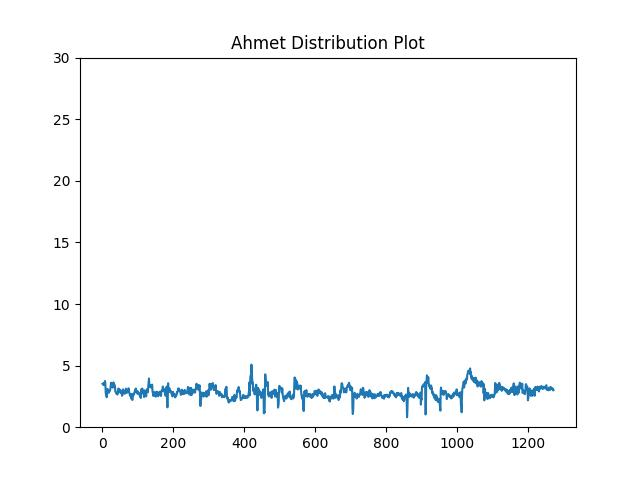
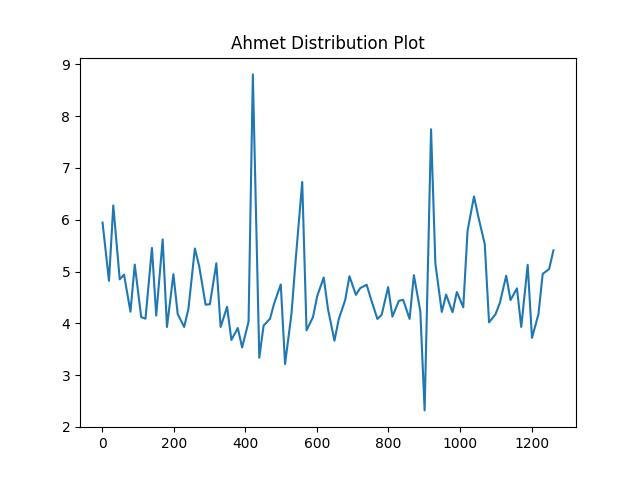
Eye Detection v2

diff --git a/EyeDetection/main.py b/EyeDetection/main.py
@@ -40,14 +40,27 @@ class ADHD_Calculation():
     
     
     
-    def calc_eye_score(self, plot = False, plot_name = "Normal Plot"):
+    def calc_eye_score(self, plot = False, plot_name = "Normal Plot", fps = 2):
+        
         
         camera = cv2.VideoCapture(self.video_path)
 
         plot_dict = dict()
         plot_dict['values'] = []
         plot_dict['time'] = []
-        frame_counter =0
+        frame_counter = 0
+        
+        total_frames = int(camera.get(cv2.CAP_PROP_FRAME_COUNT))
+        general_fps = int(camera.get(cv2.CAP_PROP_FPS))  # Frames per second of the video
+        
+        if general_fps == 0:
+            general_fps = 1
+            
+        video_minutes = int(total_frames/ general_fps)
+        
+        selected_frame_indexes = np.random.randint(1,30, size = fps)
+        total_tqdm_frames = video_minutes * fps
+        fps_counter = 0
         
         with self.map_face_mesh.FaceMesh(
             max_num_faces=1,
@@ -55,50 +68,66 @@ class ADHD_Calculation():
             min_detection_confidence=0.5,
             min_tracking_confidence=0.5) as face_mesh:
 
-            with tqdm(total=int(camera.get(cv2.CAP_PROP_FRAME_COUNT))) as pbar:    
+            with tqdm(total=total_tqdm_frames) as pbar:    
                 
                 while True:
                     frame_counter +=1 # frame counter
                     ret, frame = camera.read() # getting frame from camera 
                     if not ret: 
                         break # no more frames break
-            
                     
-                    rgb_frame = cv2.cvtColor(frame, cv2.COLOR_RGB2BGR)
-                    results  = face_mesh.process(rgb_frame)
-                    if results.multi_face_landmarks:
-                        mesh_points = utils.landmarksDetection(frame, results)
-            
-                        # Get Eye mean 
-                        left_eye_coords = [mesh_points[p] for p in self._coords['LEFT_EYE']]
-                        left_mean_eye_coords = np.mean(left_eye_coords, axis=0)
-            
-                        right_eye_coords = [mesh_points[p] for p in self._coords['RIGHT_EYE']]
-                        right_mean_eye_coords = np.mean(right_eye_coords, axis=0)
+                    frame_number = int(camera.get(cv2.CAP_PROP_POS_FRAMES))
+                    
+                    if frame_number in selected_frame_indexes:
+                        
+                        bgr_frame = cv2.cvtColor(frame, cv2.COLOR_RGB2BGR)
+                        results  = face_mesh.process(bgr_frame)
+                        if results.multi_face_landmarks:
+                            mesh_points = utils.landmarksDetection(frame, results)
+                
+                            # Get Eye mean 
+                            left_eye_coords = [mesh_points[p] for p in self._coords['LEFT_EYE']]
+                            left_mean_eye_coords = np.mean(left_eye_coords, axis=0)
+                
+                            right_eye_coords = [mesh_points[p] for p in self._coords['RIGHT_EYE']]
+                            right_mean_eye_coords = np.mean(right_eye_coords, axis=0)
 
-            
-                        # Iris Mean
-                        left_iris_coords = [mesh_points[p] for p in self._coords['LEFT_IRIS']]
-                        left_mean_iris_coords = np.mean(left_iris_coords, axis=0)
-            
-                        right_iris_coords = [mesh_points[p] for p in self._coords['RIGHT_IRIS']]
-                        right_mean_iris_coords = np.mean(right_iris_coords, axis=0)
+                
+                            # Iris Mean
+                            left_iris_coords = [mesh_points[p] for p in self._coords['LEFT_IRIS']]
+                            left_mean_iris_coords = np.mean(left_iris_coords, axis=0)
+                
+                            right_iris_coords = [mesh_points[p] for p in self._coords['RIGHT_IRIS']]
+                            right_mean_iris_coords = np.mean(right_iris_coords, axis=0)
+                            
+                        
+                            # Calculating average of distance
+                            distance_right = np.linalg.norm(left_mean_eye_coords - left_mean_iris_coords)
+                            distance_left = np.linalg.norm(right_mean_eye_coords - right_mean_iris_coords)
+                            
+                            # We get focal lengths to put distance in a scale 
+                            focal_length_left = self.calc_focal_length(frame, iris_side='left')
+                            focal_length_right = self.calc_focal_length(frame, iris_side='right')
+                            
+                            if focal_length_left is not None and focal_length_right is not None:
+                             
+                                result_left = np.round((distance_left/focal_length_left)*100, 2)
+                                result_right = np.round((distance_right/focal_length_right)*100, 2)
+                                
+                                result = (result_left + result_right)/2
+                                
+                                plot_dict['values'].append(result)
+                                plot_dict['time'].append(frame_counter)
+                            
+                            
+                        # Increase progress bar
+                        pbar.update(1)
+                        fps_counter +=1
+                        if fps_counter == len(selected_frame_indexes):
+                            selected_frame_indexes += general_fps
+                            fps_counter = 0
                         
                     
-                        # Calculating average of distance
-                        distance_right = np.linalg.norm(left_mean_eye_coords - left_mean_iris_coords)
-                        distance_left = np.linalg.norm(right_mean_eye_coords - right_mean_iris_coords)
-                        distance = np.round((distance_left + distance_right)/2, 2)
-
-                        plot_dict['values'].append(distance)
-                        plot_dict['time'].append(frame_counter)
-                        
-                        
-                        
-                    
-                    # Increase progress bar
-                    pbar.update(1)
-                  
         self.logger.info("Eye calculation process finished :)")
         
         
@@ -125,7 +154,7 @@ class ADHD_Calculation():
         
         plt.title(f"{name} Distribution Plot")
         plt.plot(plot_dict['time'], plot_dict['values'])
-        plt.ylim(0,30)
+        # plt.ylim(0,2)
         
         self.add_plot_result(fig, name)
         
@@ -187,8 +216,8 @@ class ADHD_Calculation():
 
                 
 
-                rgb_frame = cv2.cvtColor(frame, cv2.COLOR_RGB2BGR)
-                results  = face_mesh.process(rgb_frame)
+                bgr_frame = cv2.cvtColor(frame, cv2.COLOR_RGB2BGR)
+                results  = face_mesh.process(bgr_frame)
                 if results.multi_face_landmarks:
                     mesh_points = utils.landmarksDetection(frame, results)
 
@@ -248,4 +277,60 @@ class ADHD_Calculation():
         cv2.destroyAllWindows()
         camera.release()
                 
+    
+    def calc_focal_length(self, image, iris_side = "left"):
+        """
         
+
+        Args:
+            image (_type_): _description_
+            iris_side (str, optional): Side of iris. Defaults to "left". 
+
+        Returns:
+            _type_: _description_
+        """
+        width = image.shape[0]
+        height = image.shape[1]
+
+        iris_left_min_x = -1
+        iris_left_max_x = -1
+        
+        if iris_side == 'left':
+            iris_coords = self._coords['LEFT_IRIS']
+        elif iris_side == 'right':
+            iris_coords = self._coords['RIGHT_IRIS']
+        else:
+            raise ValueError("iris_side parameter can only be right or left. Please choose one of them!")
+        
+
+        with self.map_face_mesh.FaceMesh(
+                max_num_faces=1,
+                refine_landmarks=True,
+                min_detection_confidence=0.5,
+                min_tracking_confidence=0.5) as face_mesh:
+
+        
+            results = face_mesh.process(image)
+        
+            if results.multi_face_landmarks:
+                mesh_points = utils.landmarksDetection(image, results)
+                for point in self._coords['LEFT_IRIS']:
+                    point0 = mesh_points[point]
+                    if iris_left_min_x == -1 or point0[0] < iris_left_min_x:
+                        iris_left_min_x = point0[0]
+                    if iris_left_max_x == -1 or point0[0] > iris_left_max_x:
+                        iris_left_max_x = point0[0]
+
+            real_dx = iris_left_max_x - iris_left_min_x
+            constant_dx = 11.7
+
+            normalizedFocaleX = 1.40625
+            fx = np.min([width, height]) * normalizedFocaleX
+            if real_dx == 0:
+                dZ = None
+            else:
+                dZ = (fx * (constant_dx / real_dx)) / 10.0
+                dZ = np.round(dZ, 2)
+
+            
+            return dZ

diff --git a/api.py b/api.py
@@ -1,0 +1,36 @@
+from flask import Flask, jsonify, request
+
+from HeadOscillation import Head
+from EyeDetection import ADHD_Calculation
+from SpeechSpeed import SpeechSpeedClass
+
+app = Flask(__name__)
+
+
+# Route to get a list of items
+# @app.route('/api/items', methods=['GET'])
+# def get_items():
+#     return jsonify({"items": items})
+
+
+# Route to create a new item (POST request)
+@app.route('/speech_speech', methods=['POST'])
+def create_item():
+    req_body = request.json  # Assuming the client sends JSON data with the request
+    if not req_body:
+        return jsonify({"error": "Data not provided in JSON format"}), 400
+    
+    # Speech to text process
+    speech_class = SpeechSpeedClass(req_body["audio_path"])
+    speech_class.calculate_speaking_speed()    
+
+    return jsonify({"message": "Item created successfully", "item": req_body}), 201
+
+
+@app.route('/head_score', method = ['POST'])
+def get_head_score():
+    req_body = request.json
+    
+
+if __name__ == '__main__':
+    app.run(debug=True)

diff --git a/temp.py b/temp.py
@@ -1,8 +1,8 @@
 import EyeDetection
 
-# ADHD_Class = EyeDetection.ADHD_Calculation(video_path= './EyeDetection/VideoExamples/Ahmet.mp4')
+ADHD_Class = EyeDetection.ADHD_Calculation(video_path= './EyeDetection/VideoExamples/Normal.mp4')
 
-# ADHD_Class.calc_eye_score(plot = True, plot_name="Ahmet")
+ADHD_Class.calc_eye_score(plot = True, plot_name="Halil1")
 
 
 import HeadOscillation
@@ -13,8 +13,8 @@ import HeadOscillation
 
 # print(Head_class.head_score)
 
-import SpeechSpeed 
+# import SpeechSpeed 
 
-SpeechSpeedClass = SpeechSpeed.SpeechSpeedClass('./SpeechSpeed/SpeechRecording/bipolar1.wav')
+# SpeechSpeedClass = SpeechSpeed.SpeechSpeedClass('./SpeechSpeed/SpeechRecording/bipolar1.wav')
 
-SpeechSpeedClass.calculate_speaking_speed()
+# SpeechSpeedClass.calculate_speaking_speed()

diff --git a/HeadOscillation/head.py b/HeadOscillation/head.py
@@ -262,7 +262,7 @@ class Head():
         
         # assign head score
         self.head_score = result_dict
-        self.logger.info("Score is save into class's head score property.")
+        self.logger.info("Score is saved into class's head score property.")
         
         # Save Draw settings
         self.draw_plot(plot_dict=plot_dict, name = name)

diff --git a/SpeechSpeed/speech_speed.py b/SpeechSpeed/speech_speed.py
@@ -71,6 +71,7 @@ class SpeechSpeedClass():
             print("Could not request results; {0}".format(e))
             return None
     
+    
     def return_result(self, result):
         if result < self.range["NORMAL_MIN"]:
             return "Depression", result
